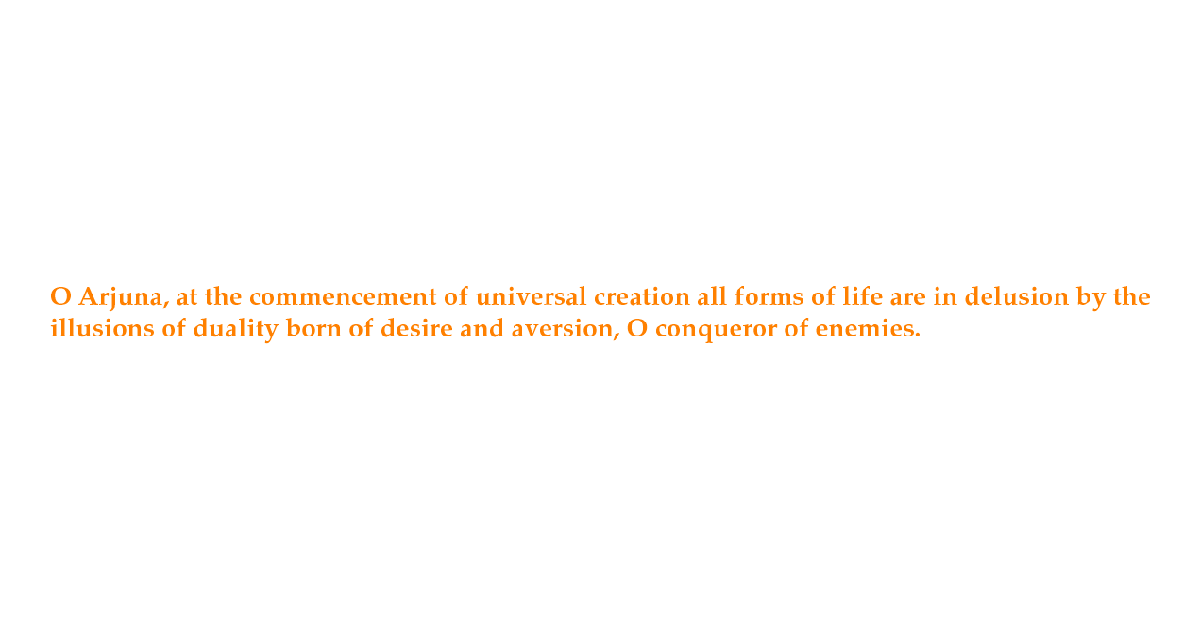
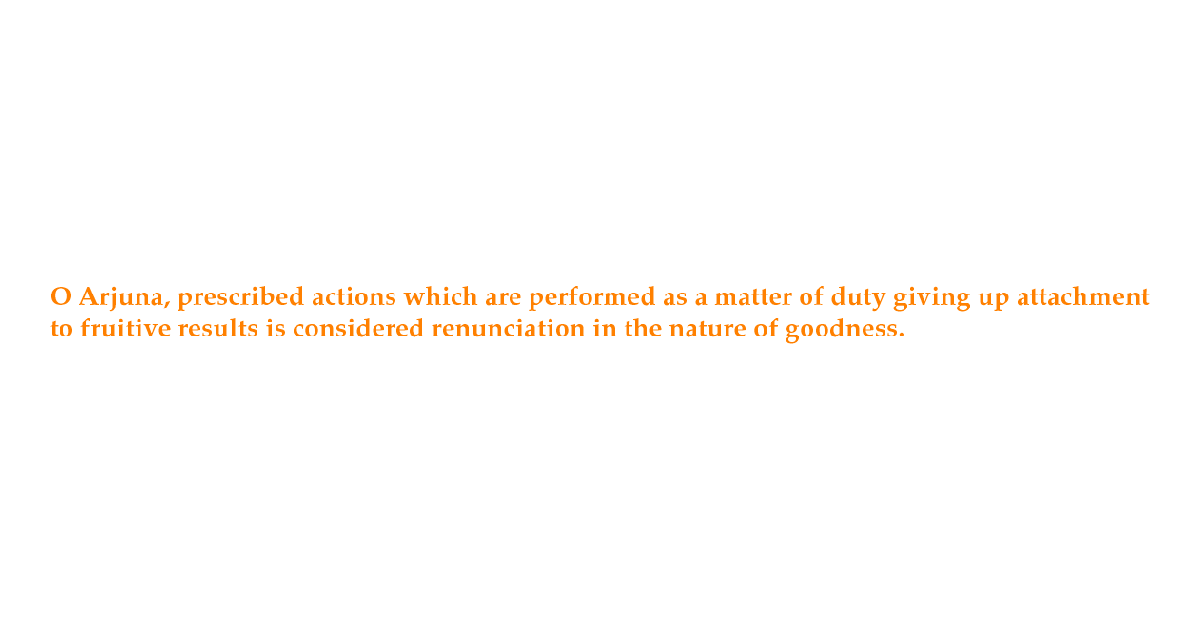
parse html

Changed region(s): [[0.0308, 0.4524, 0.9558, 0.5429]]

diff --git a/data.html b/data.html
@@ -3,6 +3,6 @@
 <body style="text-align:center;">
 <img src="data_orange_on_white.png" alt="Verse Image" style="max-width:100%;height:auto;" />
 <br/><br/>
-<a href="https://bhagavad-gita.org/Gita/verse-07-27.html" target="_blank">Chapter 07, Verse 27</a>
+<a href="https://bhagavad-gita.org/Gita/verse-18-09.html" target="_blank">Chapter 18, Verse 09</a>
 </body>
 </html>
